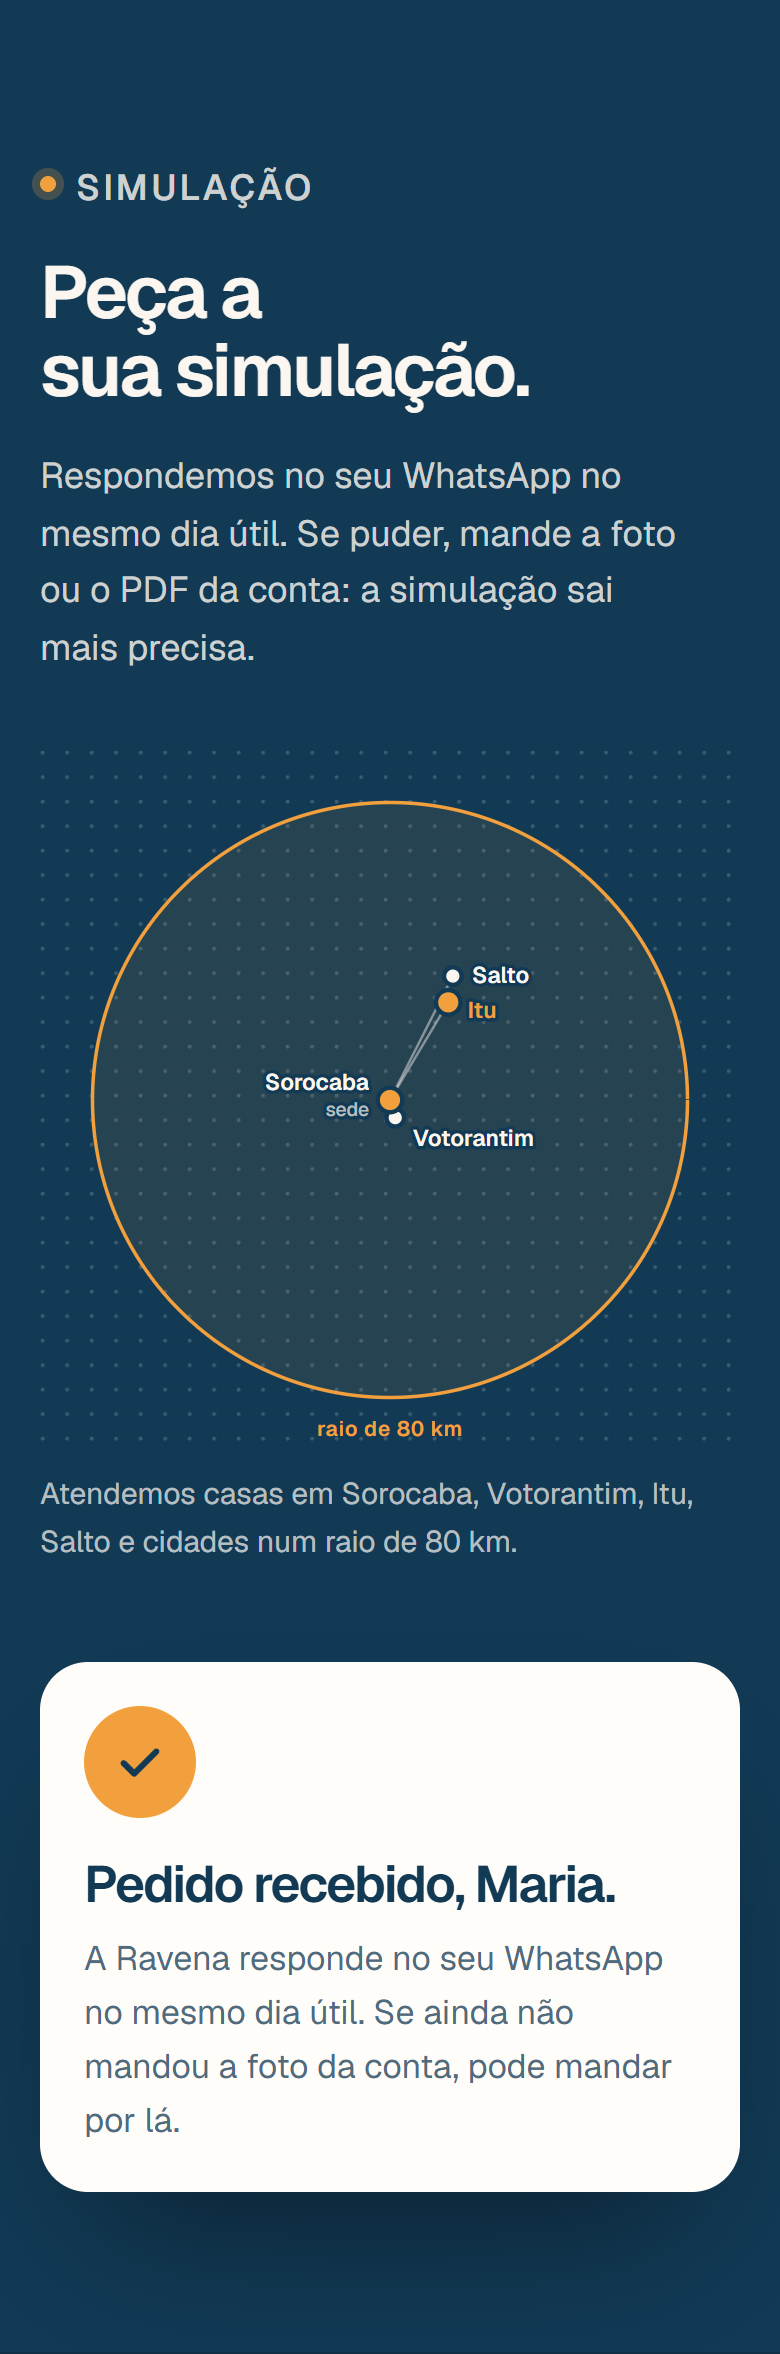
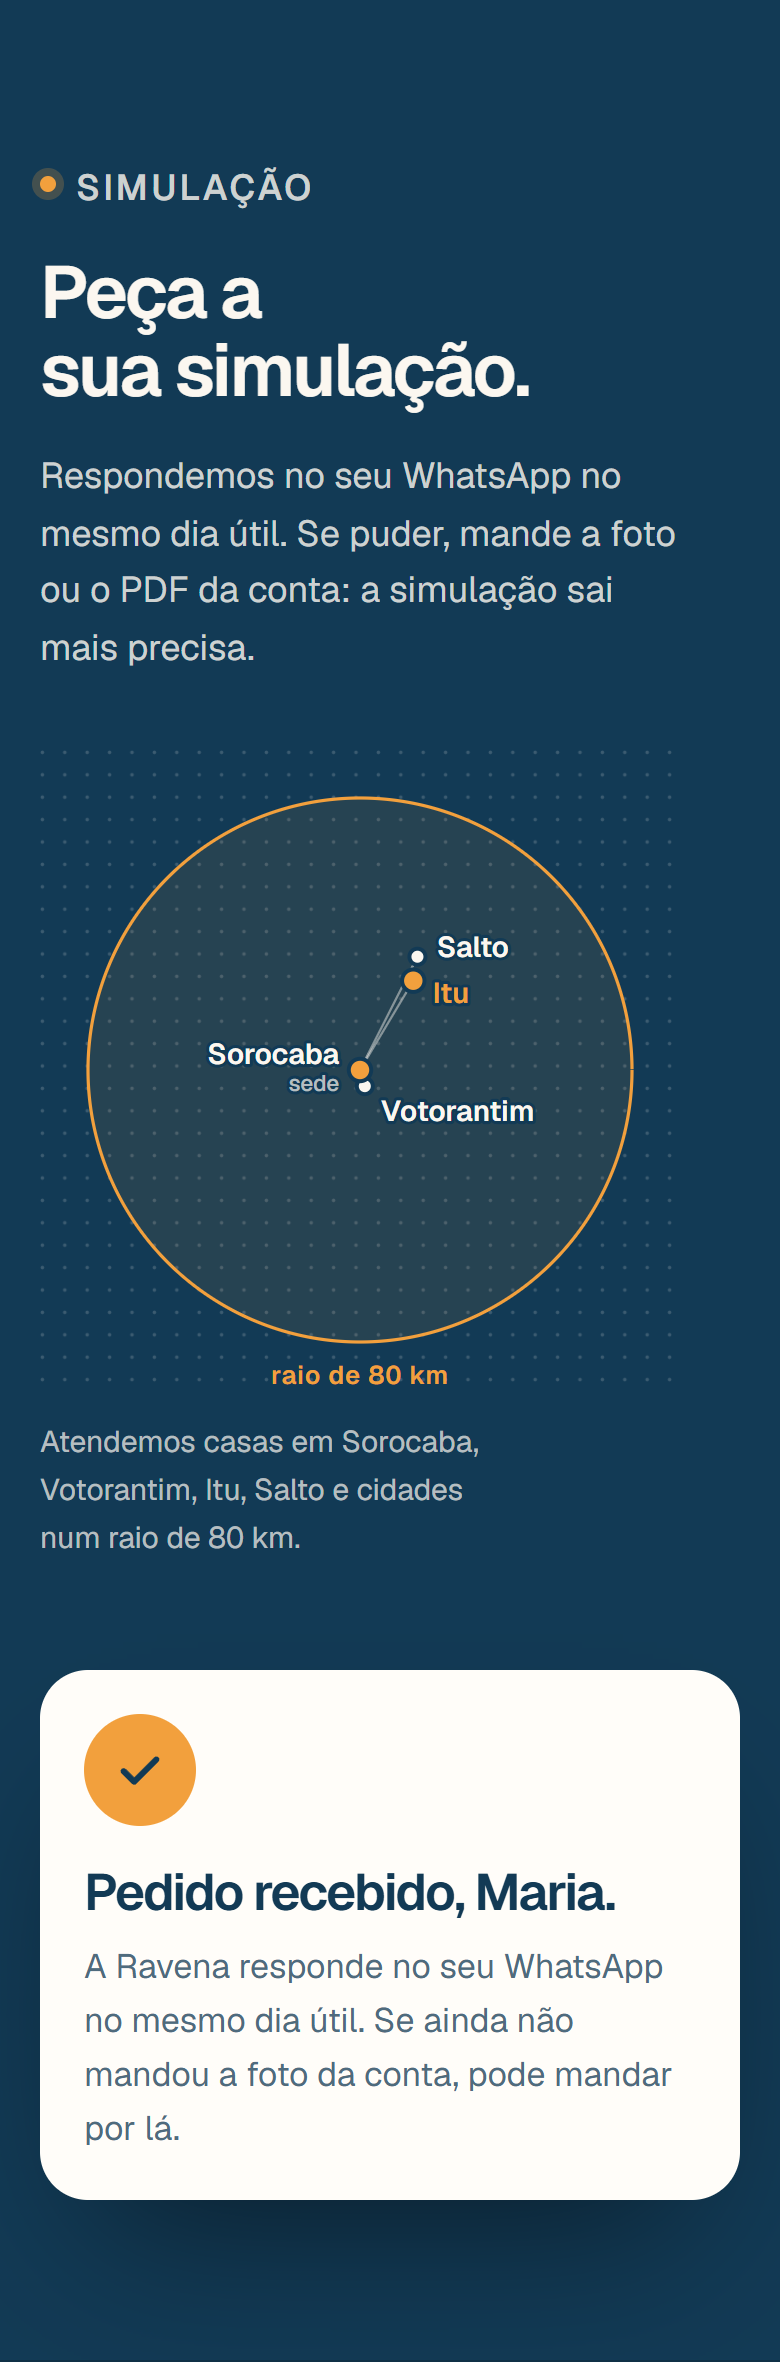
Mapa compacto, alinhado com a base do formulário e com nomes legíveis

diff --git a/src/styles/main.css b/src/styles/main.css
@@ -424,12 +424,18 @@ html:not(.js) .marco__card { opacity: 1; transform: none; }
 .pedido { background: var(--navy); color: var(--papel); padding-block: var(--secao); position: relative; overflow: clip; }
 .pedido::before { content: ''; position: absolute; right: -15%; top: -30%; width: 60vw; height: 60vw; max-width: 760px; max-height: 760px; background: radial-gradient(closest-side, color-mix(in srgb, var(--sun) 20%, transparent), transparent); pointer-events: none; }
 .pedido__grade { position: relative; display: grid; gap: 48px; align-items: start; }
-@media (min-width: 960px) { .pedido__grade { grid-template-columns: 1fr 1.05fr; gap: 72px; } }
+@media (min-width: 960px) {
+  .pedido__grade { grid-template-columns: 1fr 1.05fr; gap: 72px; align-items: stretch; }
+  /* O mapa desce até a base do formulário: as duas colunas terminam juntas. */
+  .pedido__texto { display: flex; flex-direction: column; }
+  .pedido__texto .mapa { margin-top: auto; padding-top: 32px; }
+}
 .pedido h2 { font-size: clamp(2.3rem, 3vw + 1.1rem, 3.75rem); margin-bottom: 20px; }
 .pedido__texto > p { color: color-mix(in srgb, var(--papel) 80%, transparent); font-size: 1.125rem; max-width: 30em; }
-.mapa { margin-top: 36px; max-width: 440px; }
-.mapa svg { width: 100%; overflow: visible; }
-.mapa figcaption { margin-top: 10px; font-size: 0.9375rem; color: color-mix(in srgb, var(--papel) 70%, transparent); }
+.mapa { margin-top: 36px; display: grid; gap: 14px 24px; align-items: end; }
+@media (min-width: 560px) { .mapa { grid-template-columns: minmax(0, 300px) minmax(0, 1fr); } }
+.mapa svg { width: 100%; max-width: 320px; overflow: visible; }
+.mapa figcaption { max-width: 16em; padding-bottom: 6px; font-size: 0.9375rem; color: color-mix(in srgb, var(--papel) 70%, transparent); }
 #pontos circle { fill: color-mix(in srgb, var(--papel) 18%, transparent); }
 .mapa__area { fill: color-mix(in srgb, var(--sun) 9%, transparent); transform-origin: 200px 200px; transition: transform 1.2s var(--ease) 0.2s, fill 0.4s; }
 .mapa__raio { fill: none; stroke: var(--sun); stroke-width: 2; stroke-dasharray: 100; stroke-dashoffset: 0; transition: stroke-dashoffset 1.6s var(--ease) 0.2s, stroke 0.3s, stroke-width 0.3s; }
@@ -437,15 +443,16 @@ html:not(.js) .marco__card { opacity: 1; transform: none; }
 .mapa.fora .mapa__area { fill: color-mix(in srgb, var(--ember) 16%, transparent); }
 .mapa__ligacoes line { stroke: color-mix(in srgb, var(--papel) 45%, transparent); stroke-width: 1.4; stroke-dasharray: 100; transition: stroke-dashoffset 0.9s var(--ease) 1.2s; }
 .mapa__cidade circle { fill: var(--papel); stroke: var(--navy); stroke-width: 2.5; transition: fill 0.3s, r 0.3s; }
-.mapa__cidade text { font-family: var(--fonte); font-size: 13px; font-weight: 600; fill: var(--papel); paint-order: stroke; stroke: var(--navy); stroke-width: 4px; stroke-linejoin: round; transition: fill 0.3s; }
+/* Tamanhos em unidades do SVG: o mapa aparece com ~300px, então 18 vira ~13px na tela. */
+.mapa__cidade text { font-family: var(--fonte); font-size: 18px; font-weight: 600; fill: var(--papel); paint-order: stroke; stroke: var(--navy); stroke-width: 4px; stroke-linejoin: round; transition: fill 0.3s; }
 .mapa__cidade--sede circle:not(.mapa__pulso) { fill: var(--sun); }
-.mapa__sede { font-size: 11px !important; font-weight: 500 !important; fill: color-mix(in srgb, var(--papel) 70%, transparent) !important; }
+.mapa__sede { font-size: 14px !important; font-weight: 500 !important; fill: color-mix(in srgb, var(--papel) 70%, transparent) !important; }
 .mapa__pulso { fill: none !important; stroke: var(--sun) !important; stroke-width: 2 !important; transform-origin: center; transform-box: fill-box; animation: pulso 2.4s var(--ease) 3 2.4s; opacity: 0; }
 @keyframes pulso { 0% { transform: scale(1); opacity: 0.9; } 100% { transform: scale(3.2); opacity: 0; } }
 .mapa__cidade { transition: opacity 0.5s, transform 0.6s var(--mola); transform-box: fill-box; }
 .mapa__cidade.ativa circle:not(.mapa__pulso) { fill: var(--sun); r: 7; }
 .mapa__cidade.ativa text { fill: var(--sun); }
-.mapa__legenda { font-family: var(--fonte); font-size: 12px; fill: var(--sun); font-weight: 600; letter-spacing: 0.04em; }
+.mapa__legenda { font-family: var(--fonte); font-size: 16px; fill: var(--sun); font-weight: 600; letter-spacing: 0.04em; }
 .js .mapa:not(.visto) .mapa__raio { stroke-dashoffset: 100; }
 .js .mapa:not(.visto) .mapa__area { transform: scale(0.2); }
 .js .mapa:not(.visto) .mapa__ligacoes line { stroke-dashoffset: 100; }

diff --git a/index.html b/index.html
@@ -367,11 +367,11 @@
                 <line x1="200" y1="200" x2="233.3" y2="144.2" pathLength="100"/>
                 <line x1="200" y1="200" x2="235.9" y2="129.2" pathLength="100"/>
               </g>
-              <g class="mapa__cidade" data-cidade="Salto" transform="translate(235.9 129.2)"><circle r="5"/><text x="11" y="4">Salto</text></g>
-              <g class="mapa__cidade" data-cidade="Itu" transform="translate(233.3 144.2)"><circle r="5"/><text x="11" y="9">Itu</text></g>
-              <g class="mapa__cidade" data-cidade="Votorantim" transform="translate(203 210.1)"><circle r="5"/><text x="10" y="16">Votorantim</text></g>
-              <g class="mapa__cidade mapa__cidade--sede" data-cidade="Sorocaba" transform="translate(200 200)"><circle class="mapa__pulso" r="7"/><circle r="7"/><text x="-12" y="-6" text-anchor="end">Sorocaba</text><text class="mapa__sede" x="-12" y="9" text-anchor="end">sede</text></g>
-              <text class="mapa__legenda" x="200" y="392" text-anchor="middle">raio de 80 km</text>
+              <g class="mapa__cidade" data-cidade="Salto" transform="translate(235.9 129.2)"><circle r="5"/><text x="12" y="0">Salto</text></g>
+              <g class="mapa__cidade" data-cidade="Itu" transform="translate(233.3 144.2)"><circle r="5"/><text x="12" y="14">Itu</text></g>
+              <g class="mapa__cidade" data-cidade="Votorantim" transform="translate(203 210.1)"><circle r="5"/><text x="10" y="22">Votorantim</text></g>
+              <g class="mapa__cidade mapa__cidade--sede" data-cidade="Sorocaba" transform="translate(200 200)"><circle class="mapa__pulso" r="7"/><circle r="7"/><text x="-13" y="-4" text-anchor="end">Sorocaba</text><text class="mapa__sede" x="-13" y="13" text-anchor="end">sede</text></g>
+              <text class="mapa__legenda" x="200" y="396" text-anchor="middle">raio de 80 km</text>
             </svg>
             <figcaption>Atendemos casas em Sorocaba, Votorantim, Itu, Salto e cidades num raio de 80&nbsp;km.</figcaption>
           </figure>

diff --git a/DESIGN.md b/DESIGN.md
@@ -73,7 +73,7 @@ Neutros derivados, não da marca: papel `#FBF7F0`, papel 2 `#F3ECE0`, papel 3 `#
    - No desktop, os cartões alternam dos dois lados e se encaixam em zigue-zague; no celular, o trilho fica à esquerda.
 7. **Dúvidas.** Três `<details>`, sem JavaScript.
 8. **Pedido** (faixa marinho).
-   - À esquerda: texto e mapa da região em SVG.
+   - À esquerda: texto e mapa da região em SVG. No desktop, o mapa (até 300px, com a legenda ao lado) desce até a base do formulário, para as duas colunas terminarem juntas.
    - À direita: o formulário.
    - O mapa usa a posição real das cidades, convertida de latitude e longitude em km, com Sorocaba no centro:
      - Votorantim a 5 km;
